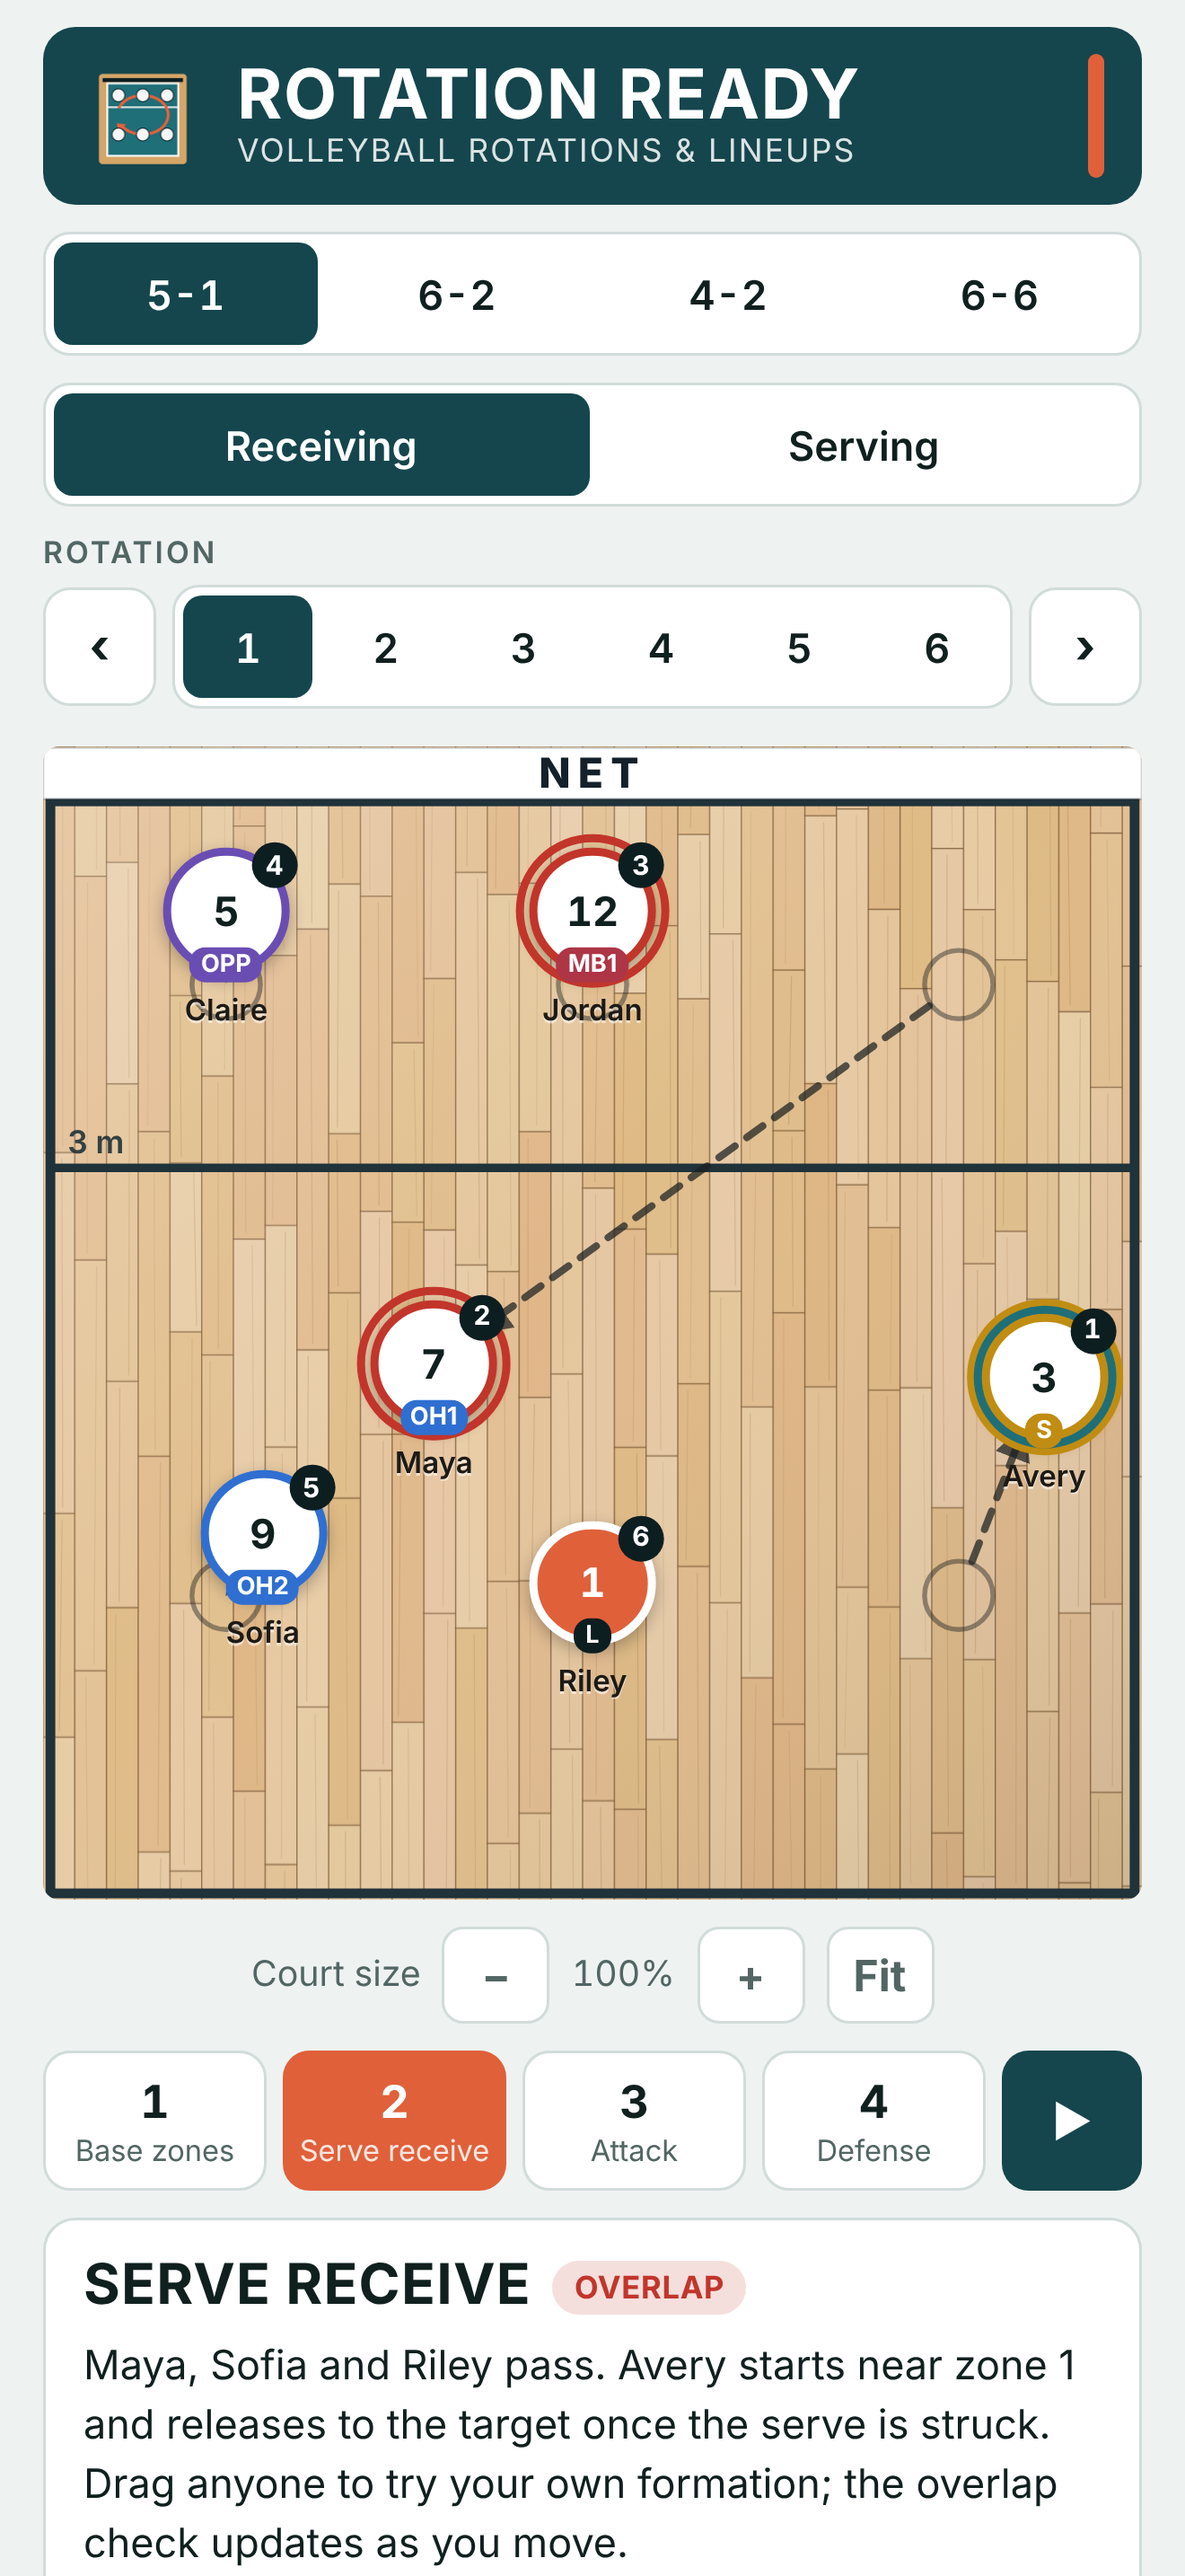
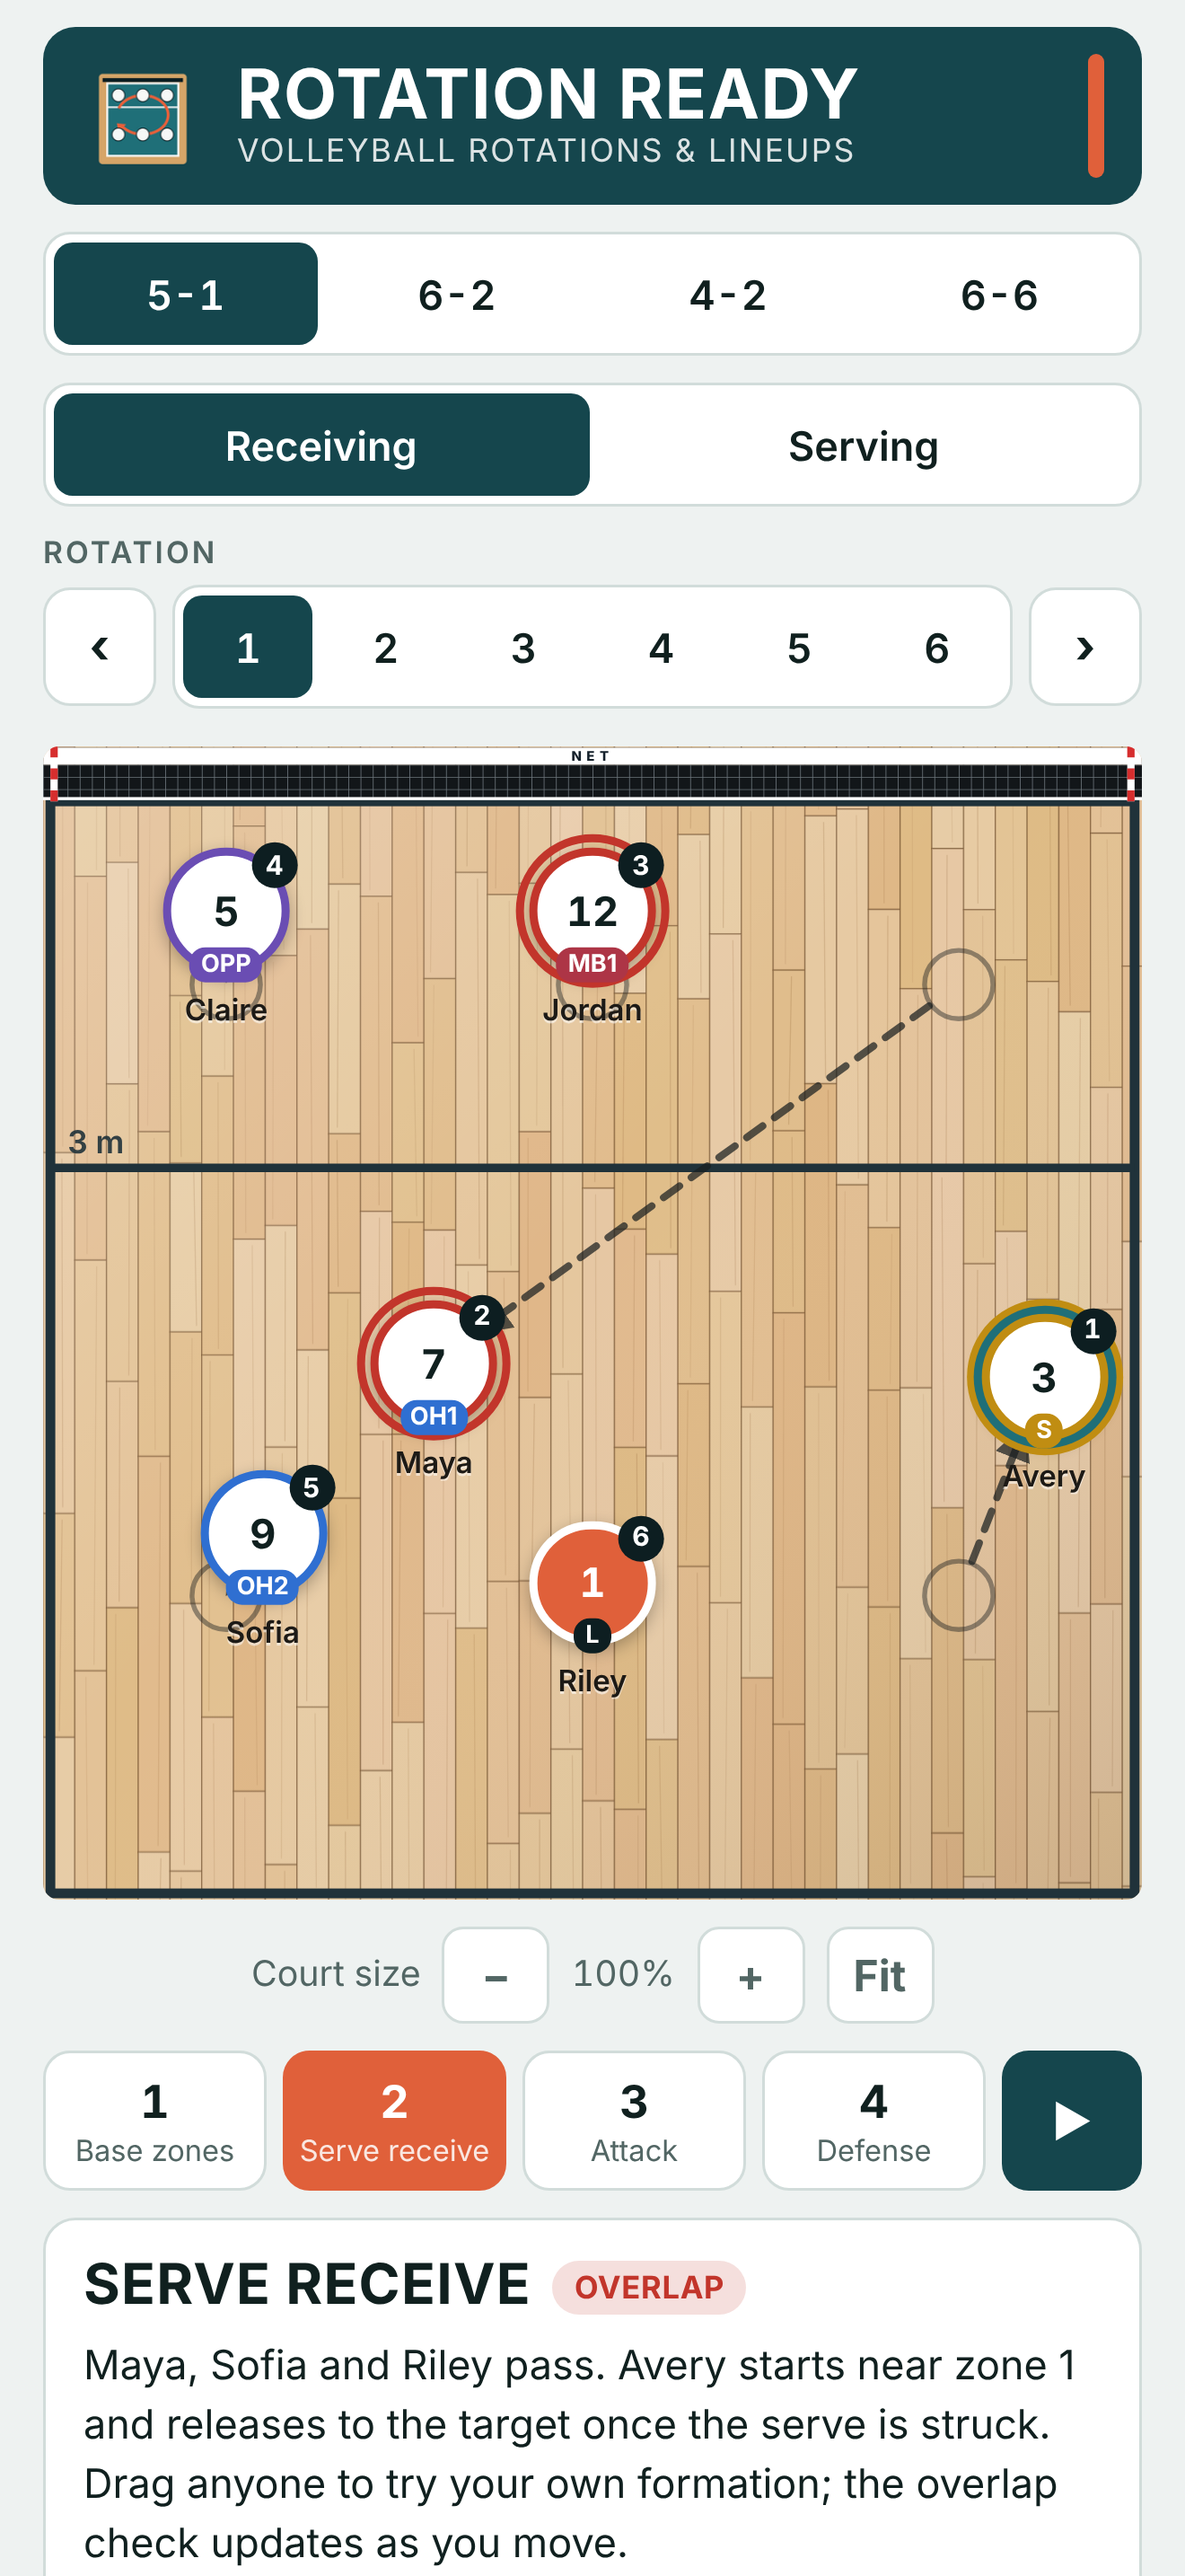
Net graphic with mesh, top tape and antennas
Claude-Session: https://claude.ai/code/session_01XjvadqE4PRY1XXpJhyDyr2

Changed region(s): [[0.0311, 0.2793, 0.9629, 0.3103]]

diff --git a/www/index.html b/www/index.html
@@ -110,7 +110,6 @@ h1{font-family:var(--display);font-weight:700;font-size:1.6rem;letter-spacing:.0
 .court.wood .c-txt{fill:var(--court-line);opacity:.9}
 .court.wood .nm{color:#1d1a16;text-shadow:0 1px 0 rgba(255,255,255,.55)}
 .tok.off .nm,.court.wood .tok.off .nm{color:var(--ink);text-shadow:none} .c-line{stroke:var(--court-line);fill:none}
-.c-net{fill:#ffffff;stroke:rgba(0,0,0,.18);stroke-width:.02}
 .c-nettxt{fill:#14202a;font-family:var(--body);font-weight:800} .c-zone{fill:var(--court-line);opacity:.18;font-family:var(--display);font-weight:700}
 .c-txt{fill:var(--court-line);opacity:.8;font-family:var(--body);font-weight:600}
 .arrows line{stroke:var(--arrow);stroke-width:.06;stroke-dasharray:.16 .12;stroke-linecap:round}
@@ -213,9 +212,9 @@ h1{font-family:var(--display);font-weight:700;font-size:1.6rem;letter-spacing:.0
           <rect class="c-sheen" x="0" y="-0.45" width="9" height="9.45" fill="url(#woodSheen)"/>
           <rect class="c-line" x="0.06" y="0" width="8.88" height="8.94" stroke-width="0.08"/>
           <line class="c-line" x1="0.06" y1="3" x2="8.94" y2="3" stroke-width="0.07"/>
-          <rect class="c-net" x="0" y="-0.44" width="9" height="0.42"/>
+          <defs><pattern id="meshB" patternUnits="userSpaceOnUse" width="0.1" height="0.1"><rect width=".1" height=".1" fill="#121619"/><path d="M0 0H.1M0 0V.1" stroke="#6b747a" stroke-width=".012" fill="none"/></pattern></defs><rect x="0" y="-0.30" width="9" height="0.28" fill="url(#meshB)"/><rect x="0" y="-0.44" width="9" height="0.14" fill="#fff" stroke="rgba(0,0,0,.2)" stroke-width=".01"/><text x="4.5" y="-0.335" font-size="0.11" text-anchor="middle" letter-spacing="0.04" class="c-nettxt">NET</text><rect x="0" y="-0.035" width="9" height="0.025" fill="#fff"/><rect x="0.06" y="-0.45" width="0.06" height="0.45" fill="#fff"/><rect x="0.06" y="-0.45" width="0.06" height="0.09" fill="#d62e2e"/><rect x="0.06" y="-0.27" width="0.06" height="0.09" fill="#d62e2e"/><rect x="0.06" y="-0.09" width="0.06" height="0.09" fill="#d62e2e"/><rect x="8.88" y="-0.45" width="0.06" height="0.45" fill="#fff"/><rect x="8.88" y="-0.45" width="0.06" height="0.09" fill="#d62e2e"/><rect x="8.88" y="-0.27" width="0.06" height="0.09" fill="#d62e2e"/><rect x="8.88" y="-0.09" width="0.06" height="0.09" fill="#d62e2e"/>
           <text class="c-txt" x="0.2" y="2.88" font-size="0.26">3 m</text>
-          <text class="c-nettxt" x="4.5" y="-0.11" font-size="0.34" text-anchor="middle" letter-spacing="0.06">NET</text>
+          
           <g id="zoneNums"></g>
         </svg>
         <svg class="arrows" id="arrows" viewBox="0 -0.45 9 9.45" preserveAspectRatio="none" aria-hidden="true">
